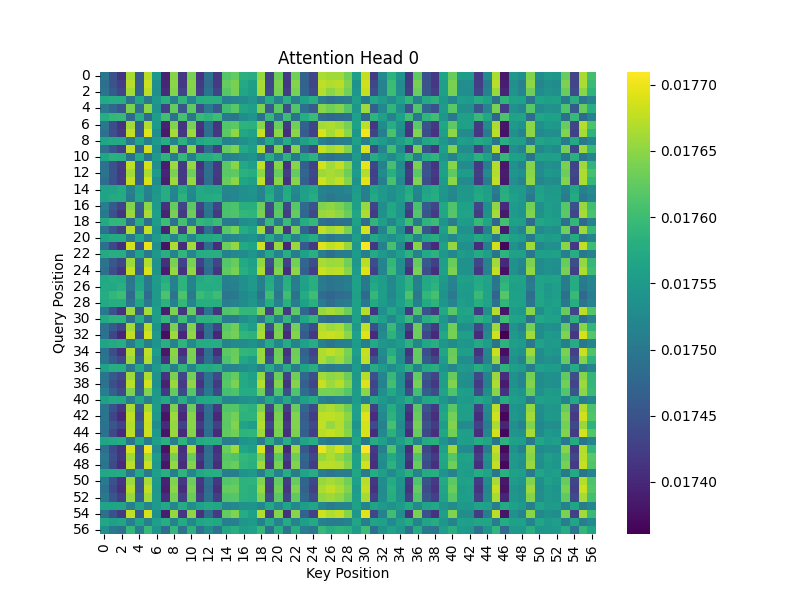
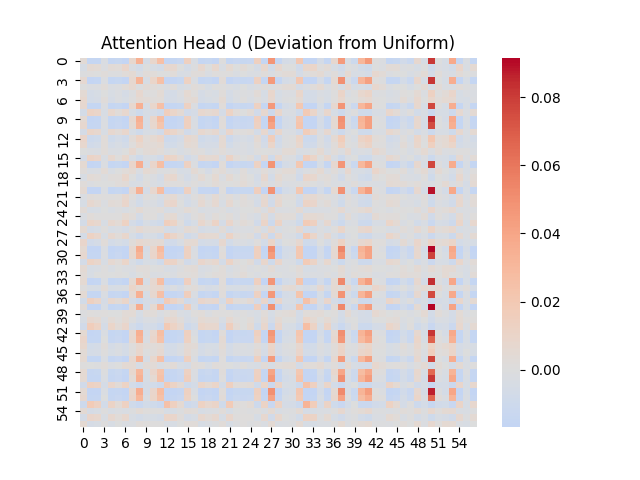
improve attention

diff --git a/ModelDef.py b/ModelDef.py
@@ -9,8 +9,8 @@ class ModelDef:
         dna_dict = {'A':0, 'T': 1, 'G': 2, 'C': 3, 'N': 4}
         maxlen = len(sequences[0])
         vocab_size = len(list(dna_dict))
-        embed_dim = 16
-        ff_dim = 32
+        embed_dim = 32
+        ff_dim = 64
 
         inputs = layers.Input(shape=(maxlen,))
         embedding_layer = layers.Embedding(input_dim=vocab_size, output_dim=embed_dim)
@@ -21,8 +21,11 @@ class ModelDef:
         pos_embedding = layers.Embedding(input_dim=maxlen, output_dim=embed_dim)
         x = x + pos_embedding(positions)
 
-        transformer_block = TransformerEncoderLayer(embed_dim, ff_dim)
-        x, attention_scores = transformer_block(x, training=None)
+        encoder_layer1 = TransformerEncoderLayer(embed_dim, ff_dim)
+        encoder_layer2 = TransformerEncoderLayer(embed_dim, ff_dim)
+
+        x, attn1 = encoder_layer1(x, training=None)
+        x, attn2 = encoder_layer2(x, training=None)
 
         # Summarizes the whole DNA sequence into one representative feature vector for classification
         x = layers.GlobalAveragePooling1D()(x)
@@ -30,14 +33,14 @@ class ModelDef:
         # final classifier
         outputs = layers.Dense(2, activation="softmax")(x)
 
-        model = keras.Model(inputs=inputs, outputs=[outputs, attention_scores])
+        model = keras.Model(inputs=inputs, outputs=[outputs, attn2])
 
         return model
     
     def attention_def(self, model):
         attention_model = keras.Model(
             inputs=model.input,
-            outputs=model.output[1]  # attention scores
+            outputs=[model.output[1]] # attention scores
         )
 
         return attention_model

diff --git a/TransformerEncoderLayer.py b/TransformerEncoderLayer.py
@@ -5,8 +5,8 @@ class TransformerEncoderLayer(layers.Layer):
     def __init__(self, embed_dim, ff_dim, rate=0.1):
         super().__init__()
         self.att = layers.MultiHeadAttention(
-            num_heads=2,
-            key_dim=embed_dim
+            num_heads=4,
+            key_dim=embed_dim // 4
         )
         self.ffn = keras.Sequential([
             layers.Dense(ff_dim, activation="relu"),
@@ -18,10 +18,10 @@ class TransformerEncoderLayer(layers.Layer):
         self.dropout2 = layers.Dropout(rate)
 
     def call(self, inputs, training):
-        attn_output, attn_scores = self.att(inputs, inputs, return_attention_scores=True) # residuals
+        attn_output, attn_scores_1 = self.att(inputs, inputs, return_attention_scores=True) # residuals
         attn_output = self.dropout1(attn_output, training=training) #prevent overfitting
         out1 = self.layernorm1(inputs + attn_output) # stabilize learning
 
         ffn_output = self.ffn(out1) # adds non linear again
         ffn_output = self.dropout2(ffn_output, training=training)
-        return self.layernorm2(out1 + ffn_output), attn_scores
+        return self.layernorm2(out1 + ffn_output), attn_scores_1

diff --git a/promotertransformer.py b/promotertransformer.py
@@ -19,7 +19,7 @@ def main():
     print("Label shape:", y.shape)
 
     X_train, X_test, y_train, y_test = train_test_split(
-        X, y, test_size=0.1, random_state=25,stratify=y
+        X, y, test_size=0.15, random_state=25,stratify=y
     )
 
     model_obj = ModelDef()
@@ -34,15 +34,14 @@ def main():
         metrics=["accuracy", None]
     )
 
-    model.fit(X_train, [y_train, np.zeros((len(y_train),))], epochs=10, batch_size=25)
+    model.fit(X_train, [y_train, np.zeros((len(y_train),))], epochs=20, batch_size=35)
 
     loss, acc = model.evaluate(X_test, y_test)
     
     functions.evaluate_results(model, acc, X_test, y_test)
 
-    sample = X_test[:1]
     attention_model = model_obj.attention_def(model)
-    attention_weights = attention_model.predict(sample)
+    attention_weights = attention_model.predict(X_test)
     print(attention_weights.shape)
     functions.plot_attention(attention_weights)
 

diff --git a/functions.py b/functions.py
@@ -52,9 +52,17 @@ def evaluate_results(model, acc, X_test, y_test):
     print(confusion_matrix(y_test, preds))
 
 def plot_attention(attention, head=0):
-    plt.figure(figsize=(8, 6))
-    sns.heatmap(attention[0, head], cmap="viridis")
-    plt.xlabel("Key Position")
-    plt.ylabel("Query Position")
-    plt.title(f"Attention Head {head}")
+    L = attention.shape[-1]
+    uniform = 1.0 / L
+    delta = attention[0, head] - uniform
+
+    sns.heatmap(delta, cmap="coolwarm", center=0)
+    plt.title(f"Attention Head {head} (Deviation from Uniform)")
     plt.show()
+
+    # plt.figure(figsize=(8, 6))
+    # sns.heatmap(attention[0, head], cmap="viridis")
+    # plt.xlabel("Key Position")
+    # plt.ylabel("Query Position")
+    # plt.title(f"Attention Head {head}")
+    # plt.show()
